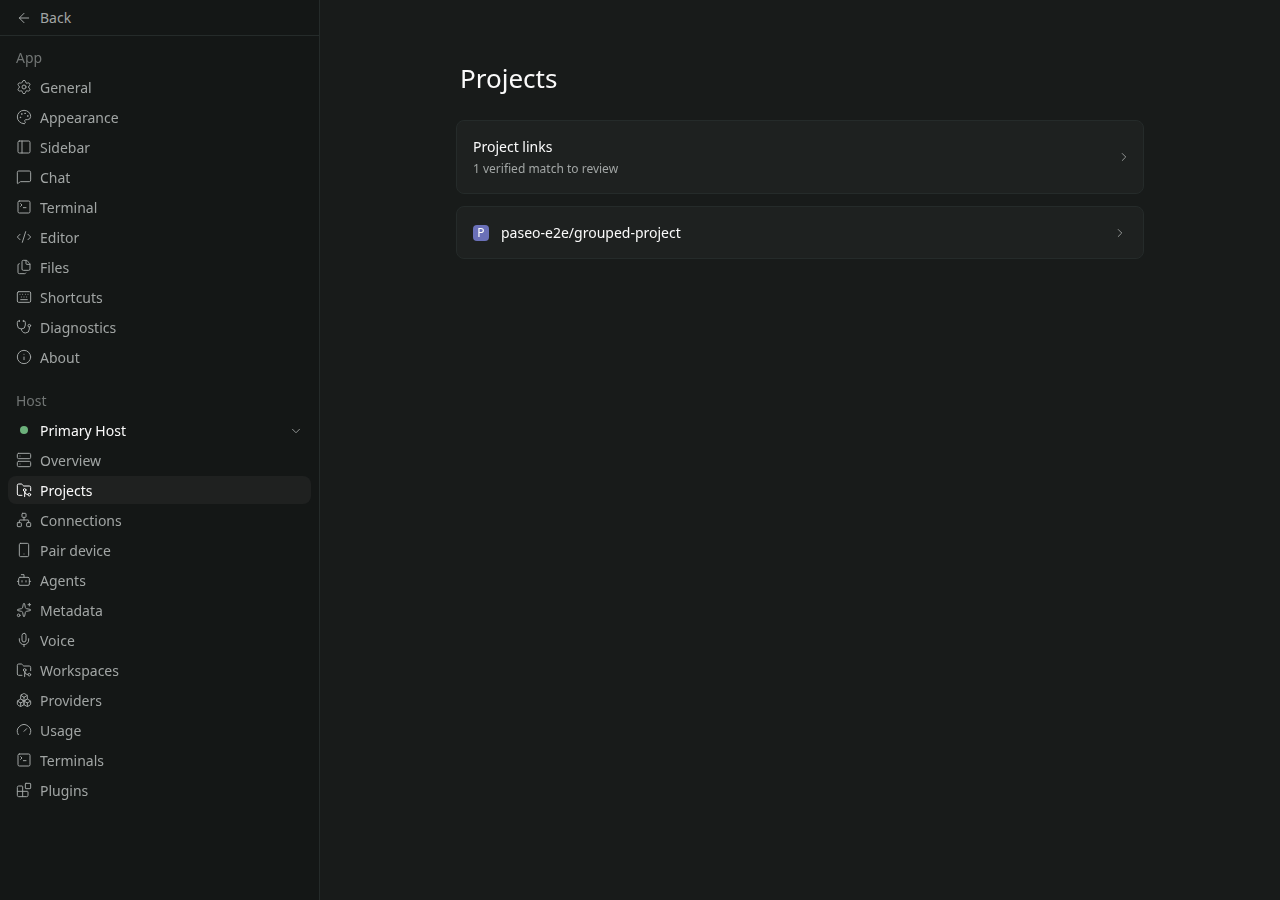
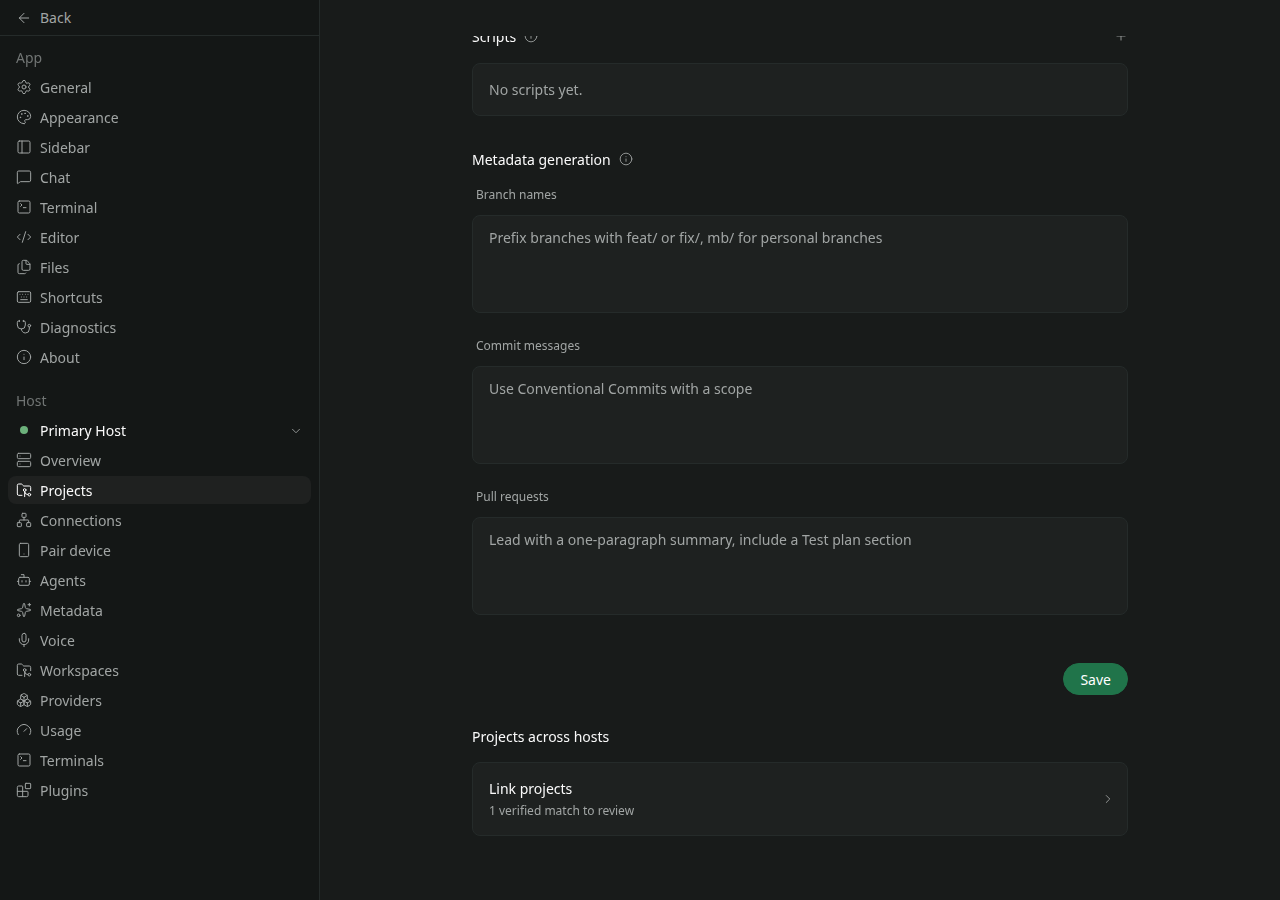
feat(app): clarify cross-host project linking

diff --git a/packages/app/src/i18n/resources/ru.ts b/packages/app/src/i18n/resources/ru.ts
@@ -2371,6 +2371,8 @@ export const ru: TranslationResources = {
     },
     projectLinks: {
       entry: {
+        sectionTitle: "Проекты на разных хостах",
+        linkProjects: "Связать проекты",
         matches: "{{count}} подтверждённых совпадений для проверки",
         matches_one: "{{count}} подтверждённое совпадение для проверки",
         matches_other: "{{count}} подтверждённых совпадений для проверки",
@@ -2379,12 +2381,12 @@ export const ru: TranslationResources = {
         manageAction: "Связи проектов…",
         matches_few: "{{count}} подтверждённых совпадения для проверки",
         matches_many: "{{count}} подтверждённых совпадений для проверки",
-        hint: "Просматривайте совпадения и управляйте связями на этом устройстве.",
+        hint: "Объединяйте копии одного Git-репозитория в боковой панели.",
       },
       sheet: {
-        title: "Связи проектов",
+        title: "Связать проекты между хостами",
         deviceOnly:
-          "Связи хранятся только на этом устройстве. Они не перемещают рабочие пространства, настройки или файлы.",
+          "Связь группирует проекты в боковой панели на этом устройстве. Рабочие области, настройки и файлы остаются на своих хостах.",
         matchesTitle: "Подтверждённые совпадения",
         matchesDescription:
           "У этих записей один и тот же удалённый Git-репозиторий и подкаталог проекта, но они всё ещё разделены.",

diff --git a/packages/app/src/i18n/resources/ar.ts b/packages/app/src/i18n/resources/ar.ts
@@ -2371,6 +2371,8 @@ export const ar: TranslationResources = {
     },
     projectLinks: {
       entry: {
+        sectionTitle: "المشاريع عبر المضيفين",
+        linkProjects: "ربط المشاريع",
         matches: "{{count}} تطابق مؤكّد للمراجعة",
         matches_one: "{{count}} تطابق مؤكّد للمراجعة",
         matches_other: "{{count}} تطابق مؤكّد للمراجعة",
@@ -2379,11 +2381,12 @@ export const ar: TranslationResources = {
         manageAction: "روابط المشاريع…",
         matches_two: "{{count}} من التطابقات المؤكّدة للمراجعة",
         matches_few: "{{count}} تطابقات مؤكّدة للمراجعة",
-        hint: "راجع المشاريع المطابقة وأدر روابطها على هذا الجهاز.",
+        hint: "اجمع نُسخ مستودع Git نفسه في الشريط الجانبي.",
       },
       sheet: {
-        title: "روابط المشاريع",
-        deviceOnly: "تُخزَّن الروابط على هذا الجهاز فقط. لا تنقل مساحات العمل أو الإعدادات أو الملفات.",
+        title: "ربط المشاريع عبر المضيفين",
+        deviceOnly:
+          "يجمع الربط المشاريع في الشريط الجانبي على هذا الجهاز. تبقى مساحات العمل والإعدادات والملفات على مضيفيها.",
         matchesTitle: "تطابقات تم التحقق منها",
         matchesDescription:
           "تمتلك هذه الإدخالات نفس مستودع Git البعيد والدليل الفرعي للمشروع، لكنها ما زالت منفصلة.",

diff --git a/packages/app/src/i18n/resources/ja.ts b/packages/app/src/i18n/resources/ja.ts
@@ -2358,18 +2358,20 @@ export const ja: TranslationResources = {
     },
     projectLinks: {
       entry: {
+        sectionTitle: "ホスト間のプロジェクト",
+        linkProjects: "プロジェクトをリンク",
         matches: "確認済みの候補 {{count}} 件",
         matches_one: "確認済みの候補 {{count}} 件",
         matches_other: "確認済みの候補 {{count}} 件",
         savedLinks: "このデバイスに保存済みのリンク",
         linkAction: "プロジェクトをリンク…",
         manageAction: "プロジェクトのリンク…",
-        hint: "一致するプロジェクトを確認し、このデバイス上のリンクを管理します。",
+        hint: "同じ Git リポジトリのコピーをサイドバーでまとめます。",
       },
       sheet: {
-        title: "プロジェクトリンク",
+        title: "ホスト間でプロジェクトをリンク",
         deviceOnly:
-          "リンクはこのデバイスにのみ保存されます。ワークスペース、設定、ファイルは移動しません。",
+          "リンクすると、このデバイスのサイドバーでプロジェクトがまとまります。ワークスペース、設定、ファイルは各ホストに残ります。",
         matchesTitle: "確認済みの一致",
         matchesDescription:
           "これらのエントリは同じ Git リモートとプロジェクトサブディレクトリを持ちますが、まだ別々です。",

diff --git a/packages/app/src/screens/project-settings-screen.tsx b/packages/app/src/screens/project-settings-screen.tsx
@@ -310,14 +310,6 @@ function ProjectSettingsBody({
         trailing={editButton}
       />
 
-      <ProjectLinksEntry
-        key={JSON.stringify([selectedHost.serverId, selectedHost.projectId])}
-        serverId={selectedHost.serverId}
-        projectId={selectedHost.projectId}
-        placements={projectLinkPlacements}
-        suggestions={projectLinkSuggestions}
-      />
-
       <ProjectEditSheet
         // A new instance per open seeds the form from the project as it stands now.
         key={`${selectedHost.serverId}:${selectedHost.projectId}:${editSessionId}`}
@@ -345,6 +337,20 @@ function ProjectSettingsBody({
         onBackToProjects,
         showBackToProjects,
       })}
+
+      <SettingsGroup
+        title={t("settings.projectLinks.entry.sectionTitle")}
+        testID="project-links-group"
+        style={styles.projectLinksGroup}
+      >
+        <ProjectLinksEntry
+          key={JSON.stringify([selectedHost.serverId, selectedHost.projectId])}
+          serverId={selectedHost.serverId}
+          projectId={selectedHost.projectId}
+          placements={projectLinkPlacements}
+          suggestions={projectLinkSuggestions}
+        />
+      </SettingsGroup>
     </View>
   );
 }
@@ -1137,6 +1143,9 @@ const styles = StyleSheet.create((theme) => ({
   body: {
     padding: theme.spacing[4],
     gap: theme.spacing[2],
+  },
+  projectLinksGroup: {
+    marginTop: theme.spacing[6],
   },
   editButton: {
     padding: theme.spacing[1],

diff --git a/packages/app/src/i18n/resources/ko.ts b/packages/app/src/i18n/resources/ko.ts
@@ -2346,18 +2346,20 @@ export const ko: TranslationResources = {
     },
     projectLinks: {
       entry: {
+        sectionTitle: "여러 호스트의 프로젝트",
+        linkProjects: "프로젝트 연결",
         matches: "검토할 확인된 일치 항목 {{count}}개",
         matches_one: "검토할 확인된 일치 항목 {{count}}개",
         matches_other: "검토할 확인된 일치 항목 {{count}}개",
         savedLinks: "이 기기에 저장된 링크",
         linkAction: "프로젝트 연결…",
         manageAction: "프로젝트 링크…",
-        hint: "일치하는 프로젝트를 검토하고 이 기기에서 링크를 관리합니다.",
+        hint: "같은 Git 저장소의 복사본을 사이드바에서 그룹으로 묶습니다.",
       },
       sheet: {
-        title: "프로젝트 연결",
+        title: "호스트 간 프로젝트 연결",
         deviceOnly:
-          "연결은 이 기기에만 저장됩니다. 워크스페이스, 설정 또는 파일은 이동하지 않습니다.",
+          "연결하면 이 기기의 사이드바에서 프로젝트가 그룹으로 묶입니다. 작업 공간, 설정, 파일은 각 호스트에 그대로 남습니다.",
         matchesTitle: "확인된 일치 항목",
         matchesDescription:
           "이 항목들은 같은 Git 원격 저장소와 프로젝트 하위 디렉터리를 가지지만 아직 분리되어 있습니다.",

diff --git a/packages/app/src/i18n/resources/fr.ts b/packages/app/src/i18n/resources/fr.ts
@@ -2385,18 +2385,20 @@ export const fr: TranslationResources = {
     },
     projectLinks: {
       entry: {
+        sectionTitle: "Projets sur plusieurs hôtes",
+        linkProjects: "Associer des projets",
         matches: "{{count}} correspondances vérifiées à examiner",
         matches_one: "{{count}} correspondance vérifiée à examiner",
         matches_other: "{{count}} correspondances vérifiées à examiner",
         savedLinks: "Liens enregistrés sur cet appareil",
         linkAction: "Associer des projets…",
         manageAction: "Liens entre projets…",
-        hint: "Passez en revue les correspondances et gérez les liens sur cet appareil.",
+        hint: "Regroupez les copies du même dépôt Git dans la barre latérale.",
       },
       sheet: {
-        title: "Liens de projets",
+        title: "Associer des projets entre hôtes",
         deviceOnly:
-          "Les liens sont enregistrés uniquement sur cet appareil. Ils ne déplacent ni espaces de travail, ni réglages, ni fichiers.",
+          "L’association regroupe les projets dans la barre latérale sur cet appareil. Les espaces de travail, les paramètres et les fichiers restent sur leurs hôtes.",
         matchesTitle: "Correspondances vérifiées",
         matchesDescription:
           "Ces entrées ont le même dépôt distant Git et le même sous-répertoire de projet, mais restent séparées.",

diff --git a/packages/app/src/i18n/resources/pt-BR.ts b/packages/app/src/i18n/resources/pt-BR.ts
@@ -2369,18 +2369,20 @@ export const ptBR: TranslationResources = {
     },
     projectLinks: {
       entry: {
+        sectionTitle: "Projetos em vários hosts",
+        linkProjects: "Vincular projetos",
         matches: "{{count}} correspondências verificadas para revisar",
         matches_one: "{{count}} correspondência verificada para revisar",
         matches_other: "{{count}} correspondências verificadas para revisar",
         savedLinks: "Vínculos salvos neste dispositivo",
         linkAction: "Vincular projetos…",
         manageAction: "Vínculos de projetos…",
-        hint: "Revise as correspondências e gerencie os vínculos neste dispositivo.",
+        hint: "Agrupe cópias do mesmo repositório Git na barra lateral.",
       },
       sheet: {
-        title: "Vínculos de projetos",
+        title: "Vincular projetos entre hosts",
         deviceOnly:
-          "Os vínculos são armazenados somente neste dispositivo. Eles não movem espaços de trabalho, configurações nem arquivos.",
+          "O vínculo agrupa os projetos na barra lateral deste dispositivo. Espaços de trabalho, configurações e arquivos permanecem em seus hosts.",
         matchesTitle: "Correspondências verificadas",
         matchesDescription:
           "Estas entradas têm o mesmo remoto do Git e subdiretório do projeto, mas ainda estão separadas.",

diff --git a/packages/app/src/i18n/resources/es.ts b/packages/app/src/i18n/resources/es.ts
@@ -2384,18 +2384,20 @@ export const es: TranslationResources = {
     },
     projectLinks: {
       entry: {
+        sectionTitle: "Proyectos en varios hosts",
+        linkProjects: "Vincular proyectos",
         matches: "{{count}} coincidencias verificadas para revisar",
         matches_one: "{{count}} coincidencia verificada para revisar",
         matches_other: "{{count}} coincidencias verificadas para revisar",
         savedLinks: "Vínculos guardados en este dispositivo",
         linkAction: "Vincular proyectos…",
         manageAction: "Vínculos de proyectos…",
-        hint: "Revisa coincidencias y gestiona los vínculos en este dispositivo.",
+        hint: "Agrupa copias del mismo repositorio Git en la barra lateral.",
       },
       sheet: {
-        title: "Enlaces de proyectos",
+        title: "Vincular proyectos entre hosts",
         deviceOnly:
-          "Los enlaces se guardan solo en este dispositivo. No mueven espacios de trabajo, ajustes ni archivos.",
+          "La vinculación agrupa los proyectos en la barra lateral de este dispositivo. Los espacios de trabajo, la configuración y los archivos permanecen en sus hosts.",
         matchesTitle: "Coincidencias verificadas",
         matchesDescription:
           "Estas entradas tienen el mismo remoto de Git y subdirectorio del proyecto, pero aún están separadas.",

diff --git a/packages/app/src/i18n/resources/zh-CN.ts b/packages/app/src/i18n/resources/zh-CN.ts
@@ -2312,17 +2312,19 @@ export const zhCN: TranslationResources = {
     },
     projectLinks: {
       entry: {
+        sectionTitle: "跨主机的项目",
+        linkProjects: "关联项目",
         matches: "有 {{count}} 个已验证的匹配项待查看",
         matches_one: "有 {{count}} 个已验证的匹配项待查看",
         matches_other: "有 {{count}} 个已验证的匹配项待查看",
         savedLinks: "关联已保存在此设备上",
         linkAction: "关联项目…",
         manageAction: "项目关联…",
-        hint: "查看匹配的项目并管理此设备上的关联。",
+        hint: "在侧边栏中归组同一 Git 仓库的副本。",
       },
       sheet: {
-        title: "项目链接",
-        deviceOnly: "链接仅存储在此设备上，不会移动工作区、设置或文件。",
+        title: "跨主机关联项目",
+        deviceOnly: "关联后，项目会在此设备的侧边栏中归组。工作区、设置和文件仍留在各自的主机上。",
         matchesTitle: "已验证的匹配项",
         matchesDescription: "这些条目具有相同的 Git 远程仓库和项目子目录，但仍然是分开的。",
         linkedTitle: "已链接的项目",

diff --git a/packages/app/src/i18n/resources/en.ts b/packages/app/src/i18n/resources/en.ts
@@ -2363,18 +2363,20 @@ export const en = {
     },
     projectLinks: {
       entry: {
+        sectionTitle: "Projects across hosts",
+        linkProjects: "Link projects",
         matches: "{{count}} verified matches to review",
         matches_one: "{{count}} verified match to review",
         matches_other: "{{count}} verified matches to review",
         savedLinks: "Links saved on this device",
         linkAction: "Link projects…",
         manageAction: "Project links…",
-        hint: "Review matches and manage links on this device.",
+        hint: "Group copies of the same Git repository in your sidebar.",
       },
       sheet: {
-        title: "Project links",
+        title: "Link projects across hosts",
         deviceOnly:
-          "Links are stored only on this device. They do not move workspaces, settings, or files.",
+          "Linking groups projects in the sidebar on this device. Workspaces, settings, and files stay on their hosts.",
         matchesTitle: "Verified matches",
         matchesDescription:
           "These entries have the same Git remote and project subdirectory, but are still separate.",

diff --git a/packages/app/e2e/browser/sidebar-project-grouping.spec.ts b/packages/app/e2e/browser/sidebar-project-grouping.spec.ts
@@ -488,7 +488,7 @@ test.describe("Sidebar project grouping", () => {
       projectName: GROUPED_PROJECT_NAME,
     });
 
-    const entry = page.getByRole("button", { name: "Project links", exact: true });
+    const entry = page.getByRole("button", { name: "Link projects", exact: true });
     await entry.click();
 
     const sheet = page.getByTestId("project-links-sheet");
@@ -526,7 +526,7 @@ test.describe("Sidebar project grouping", () => {
     await openProjectsSettings(page, getServerId());
 
     await expect(page.getByText("No projects yet", { exact: true })).toBeVisible();
-    await page.getByRole("button", { name: "Project links", exact: true }).click();
+    await page.getByRole("button", { name: "Link projects across hosts", exact: true }).click();
 
     const sheet = page.getByTestId("project-links-sheet");
     await expect(sheet).toBeVisible();

diff --git a/packages/app/e2e/browser/projects-settings.spec.ts b/packages/app/e2e/browser/projects-settings.spec.ts
@@ -215,7 +215,9 @@ test.describe("Projects settings", () => {
 
       await expectProjectSettingsFormVisible(page);
       await expect(page.getByTestId("project-settings-back-button")).not.toBeVisible();
-      await page.getByRole("button", { name: "Project links", exact: true }).click();
+      const linksGroup = page.getByTestId("project-links-group");
+      await expect(linksGroup.getByText("Projects across hosts", { exact: true })).toBeVisible();
+      await linksGroup.getByRole("button", { name: "Link projects", exact: true }).click();
       await expect(page.getByTestId("project-links-no-matches")).toBeVisible();
       await page.getByTestId("project-links-close").click();
       await expectProjectSettingsFormVisible(page);
